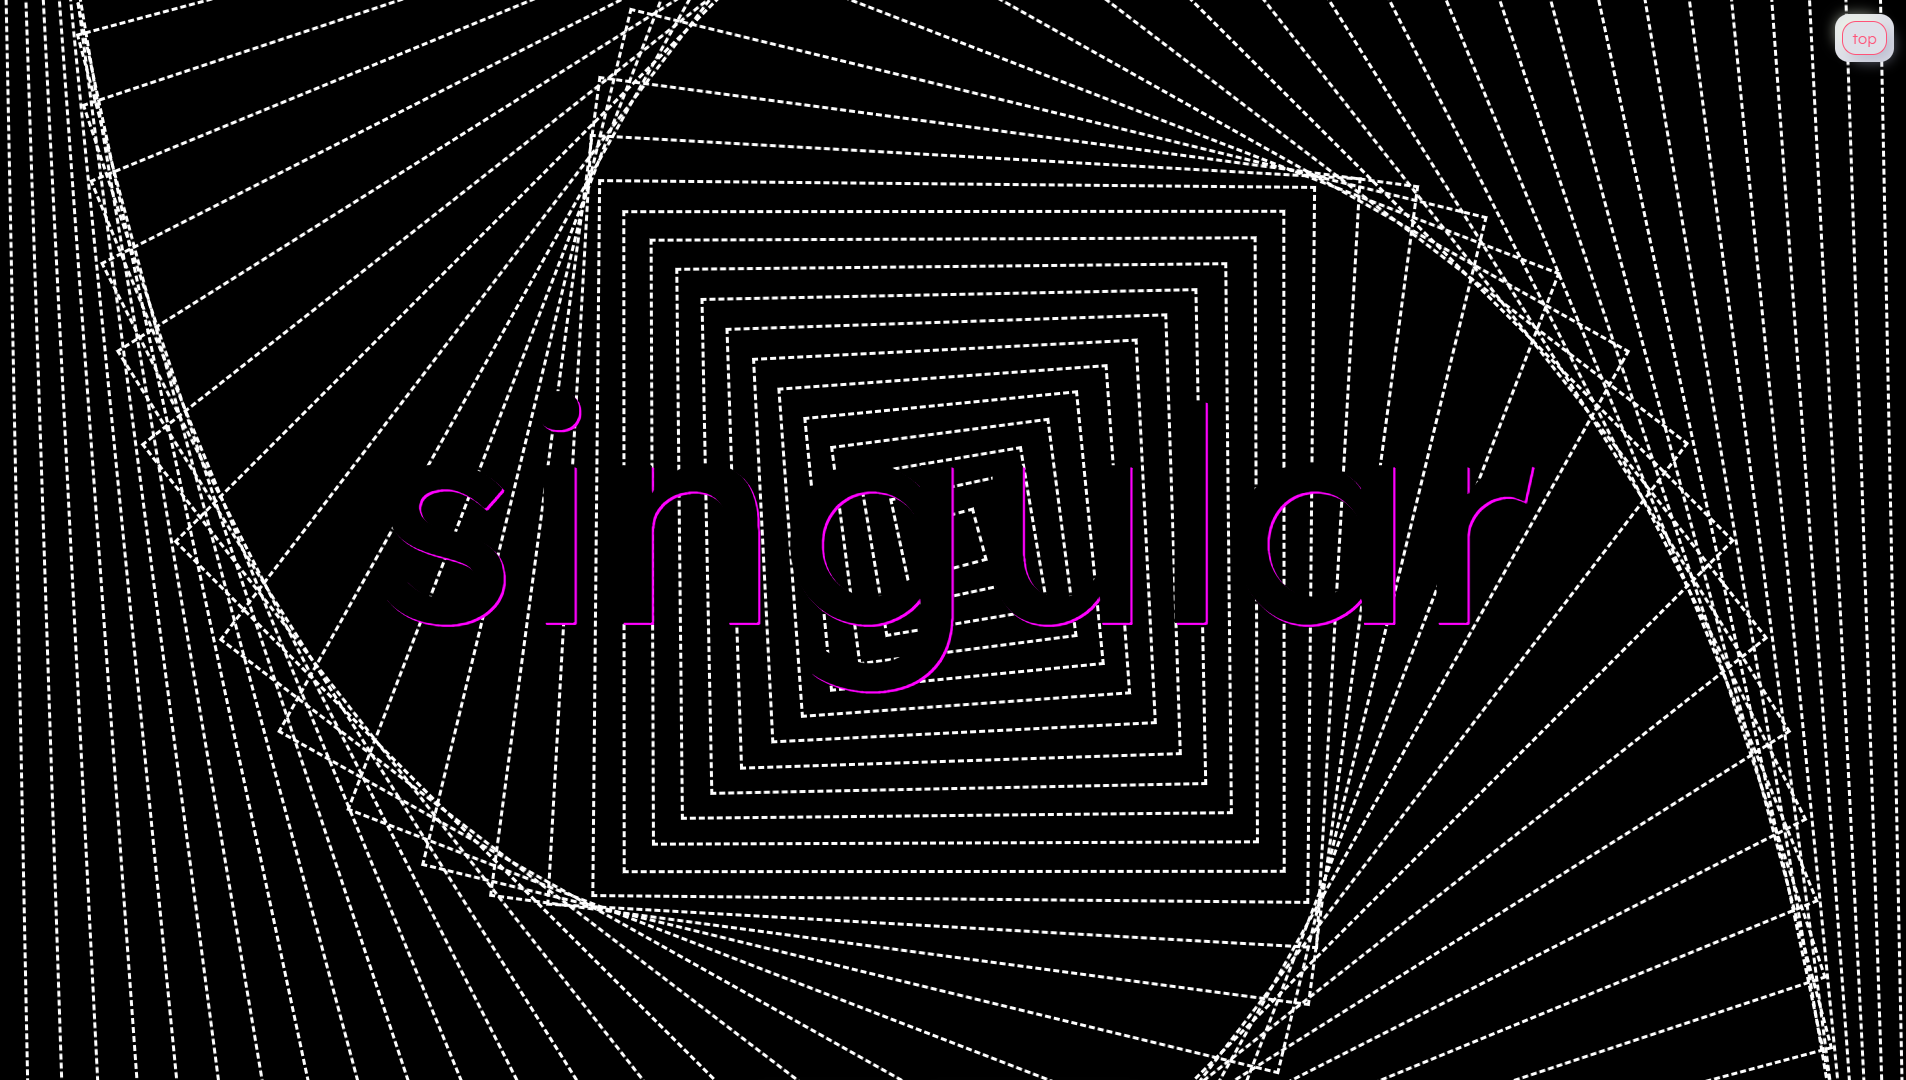
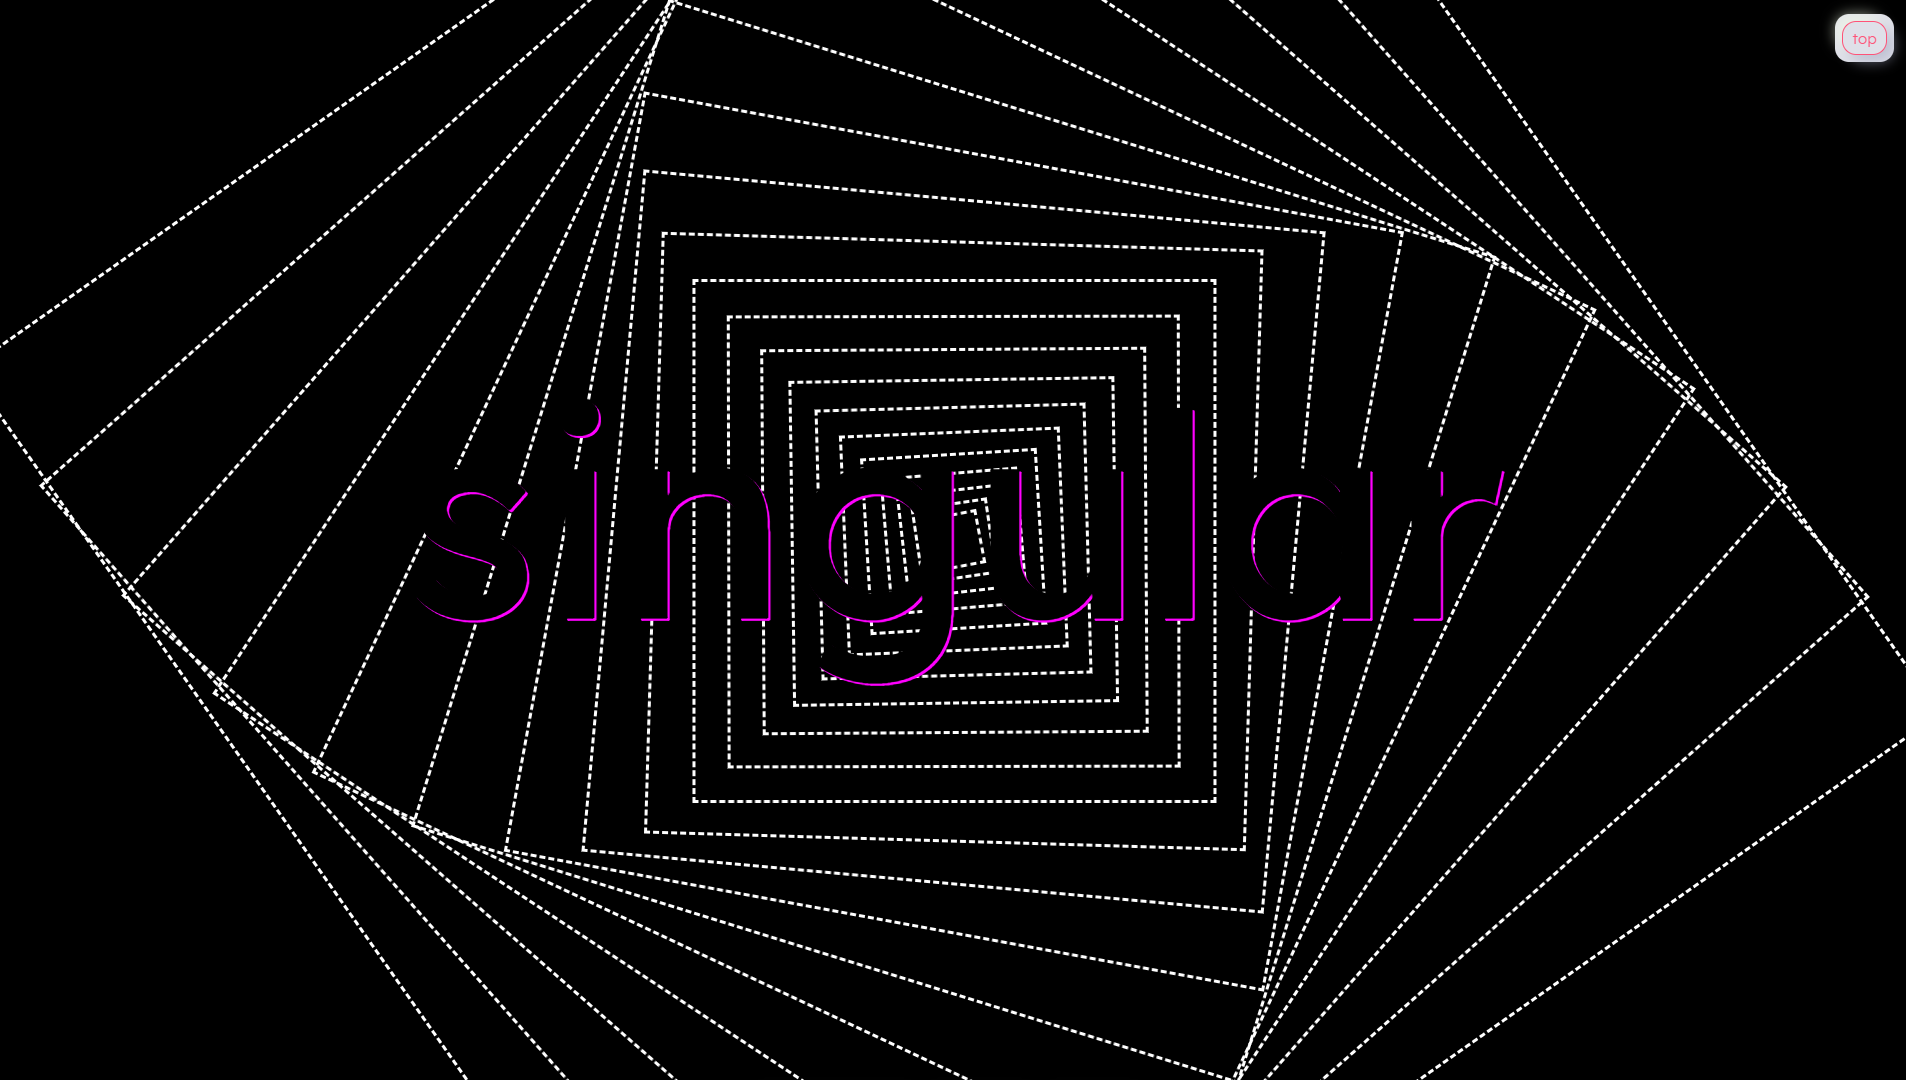
singular less lag

diff --git a/content/english/Minimalism/Singular/index.md b/content/english/Minimalism/Singular/index.md
@@ -26,41 +26,25 @@ summary:
 <div class="quote centered"><h1 id="quote" style="font-size: calc(12vw + 5vh)"></h1></div>
 
 <div class="animated centered" style="width: 50px; height: 50px; animation-delay: -0.1s"></div>
-<div class="animated centered" style="width: 100px; height: 100px; animation-delay: -0.2s""></div>
-<div class="animated centered" style="width: 150px; height: 150px; animation-delay: -0.3s""></div>
-<div class="animated centered" style="width: 200px; height: 200px; animation-delay: -0.4s"></div>
-<div class="animated centered" style="width: 250px; height: 250px; animation-delay: -0.5s""></div>
-<div class="animated centered" style="width: 300px; height: 300px; animation-delay: -0.6s""></div>
-<div class="animated centered" style="width: 350px; height: 350px; animation-delay: -0.7s""></div>
-<div class="animated centered" style="width: 400px; height: 400px; animation-delay: -0.8s""></div>
-<div class="animated centered" style="width: 450px; height: 450px; animation-delay: -0.9s"></div>
-<div class="animated centered" style="width: 500px; height: 500px; animation-delay: -1s""></div>
-<div class="animated centered" style="width: 550px; height: 550px; animation-delay: -1.1s""></div>
-<div class="animated centered" style="width: 600px; height: 600px; animation-delay: -1.2s"></div>
-<div class="animated centered" style="width: 650px; height: 650px; animation-delay: -1.3s""></div>
+<div class="animated centered" style="width: 70px; height: 70px; animation-delay: -0.2s""></div>
+<div class="animated centered" style="width: 95px; height: 95px; animation-delay: -0.3s""></div>
+<div class="animated centered" style="width: 125px; height: 125px; animation-delay: -0.4s"></div>
+<div class="animated centered" style="width: 160px; height: 160px; animation-delay: -0.5s""></div>
+<div class="animated centered" style="width: 200px; height: 200px; animation-delay: -0.6s""></div>
+<div class="animated centered" style="width: 245px; height: 245px; animation-delay: -0.7s""></div>
+<div class="animated centered" style="width: 295px; height: 295px; animation-delay: -0.8s""></div>
+<div class="animated centered" style="width: 350px; height: 350px; animation-delay: -0.9s"></div>
+<div class="animated centered" style="width: 410px; height: 410px; animation-delay: -1s""></div>
+<div class="animated centered" style="width: 475px; height: 475px; animation-delay: -1.1s""></div>
+<div class="animated centered" style="width: 545px; height: 545px; animation-delay: -1.2s"></div>
+<div class="animated centered" style="width: 620px; height: 620px; animation-delay: -1.3s""></div>
 <div class="animated centered" style="width: 700px; height: 700px; animation-delay: -1.4s""></div>
-<div class="animated centered" style="width: 750px; height: 750px; animation-delay: -1.5s""></div>
-<div class="animated centered" style="width: 800px; height: 800px; animation-delay: -1.6s""></div>
-<div class="animated centered" style="width: 850px; height: 850px; animation-delay: -1.7s"></div>
-<div class="animated centered" style="width: 900px; height: 900px; animation-delay: -1.8s""></div>
-<div class="animated centered" style="width: 950px; height: 950px; animation-delay: -1.9s""></div>
-<div class="animated centered" style="width: 1000px; height: 1000px; animation-delay: -2s"></div>
-<div class="animated centered" style="width: 1050px; height: 1050px; animation-delay: -2.1s""></div>
-<div class="animated centered" style="width: 1100px; height: 1100px; animation-delay: -2.2s"></div>
-<div class="animated centered" style="width: 1150px; height: 1150px; animation-delay: -2.3s""></div>
-<div class="animated centered" style="width: 1200px; height: 1200px; animation-delay: -2.4s""></div>
-<div class="animated centered" style="width: 1250px; height: 1250px; animation-delay: -2.5s""></div>
-<div class="animated centered" style="width: 1300px; height: 1300px; animation-delay: -2.6s""></div>
-<div class="animated centered" style="width: 1350px; height: 1350px; animation-delay: -2.7s"></div>
-<div class="animated centered" style="width: 1400px; height: 1400px; animation-delay: -2.8s""></div>
-<div class="animated centered" style="width: 1450px; height: 1450px; animation-delay: -2.9s""></div>
-<div class="animated centered" style="width: 1500px; height: 1500px; animation-delay: -3s"></div>
-<div class="animated centered" style="width: 1550px; height: 1550px; animation-delay: -3.1s""></div>
-<div class="animated centered" style="width: 1600px; height: 1600px; animation-delay: -3.2s"></div>
-<div class="animated centered" style="width: 1650px; height: 1650px; animation-delay: -3.3s""></div>
-<div class="animated centered" style="width: 1700px; height: 1700px; animation-delay: -3.4s""></div>
-<div class="animated centered" style="width: 1750px; height: 1750px; animation-delay: -3.5s""></div>
-
+<div class="animated centered" style="width: 785px; height: 785px; animation-delay: -1.5s""></div>
+<div class="animated centered" style="width: 875px; height: 875px; animation-delay: -1.6s""></div>
+<div class="animated centered" style="width: 970px; height: 970px; animation-delay: -1.7s"></div>
+<div class="animated centered" style="width: 1070px; height: 1070px; animation-delay: -1.8s""></div>
+<div class="animated centered" style="width: 1175px; height: 1175px; animation-delay: -1.9s""></div>
+<div class="animated centered" style="width: 1285px; height: 1285px; animation-delay: -2s""></div>
 
 <style>
     .quote {
